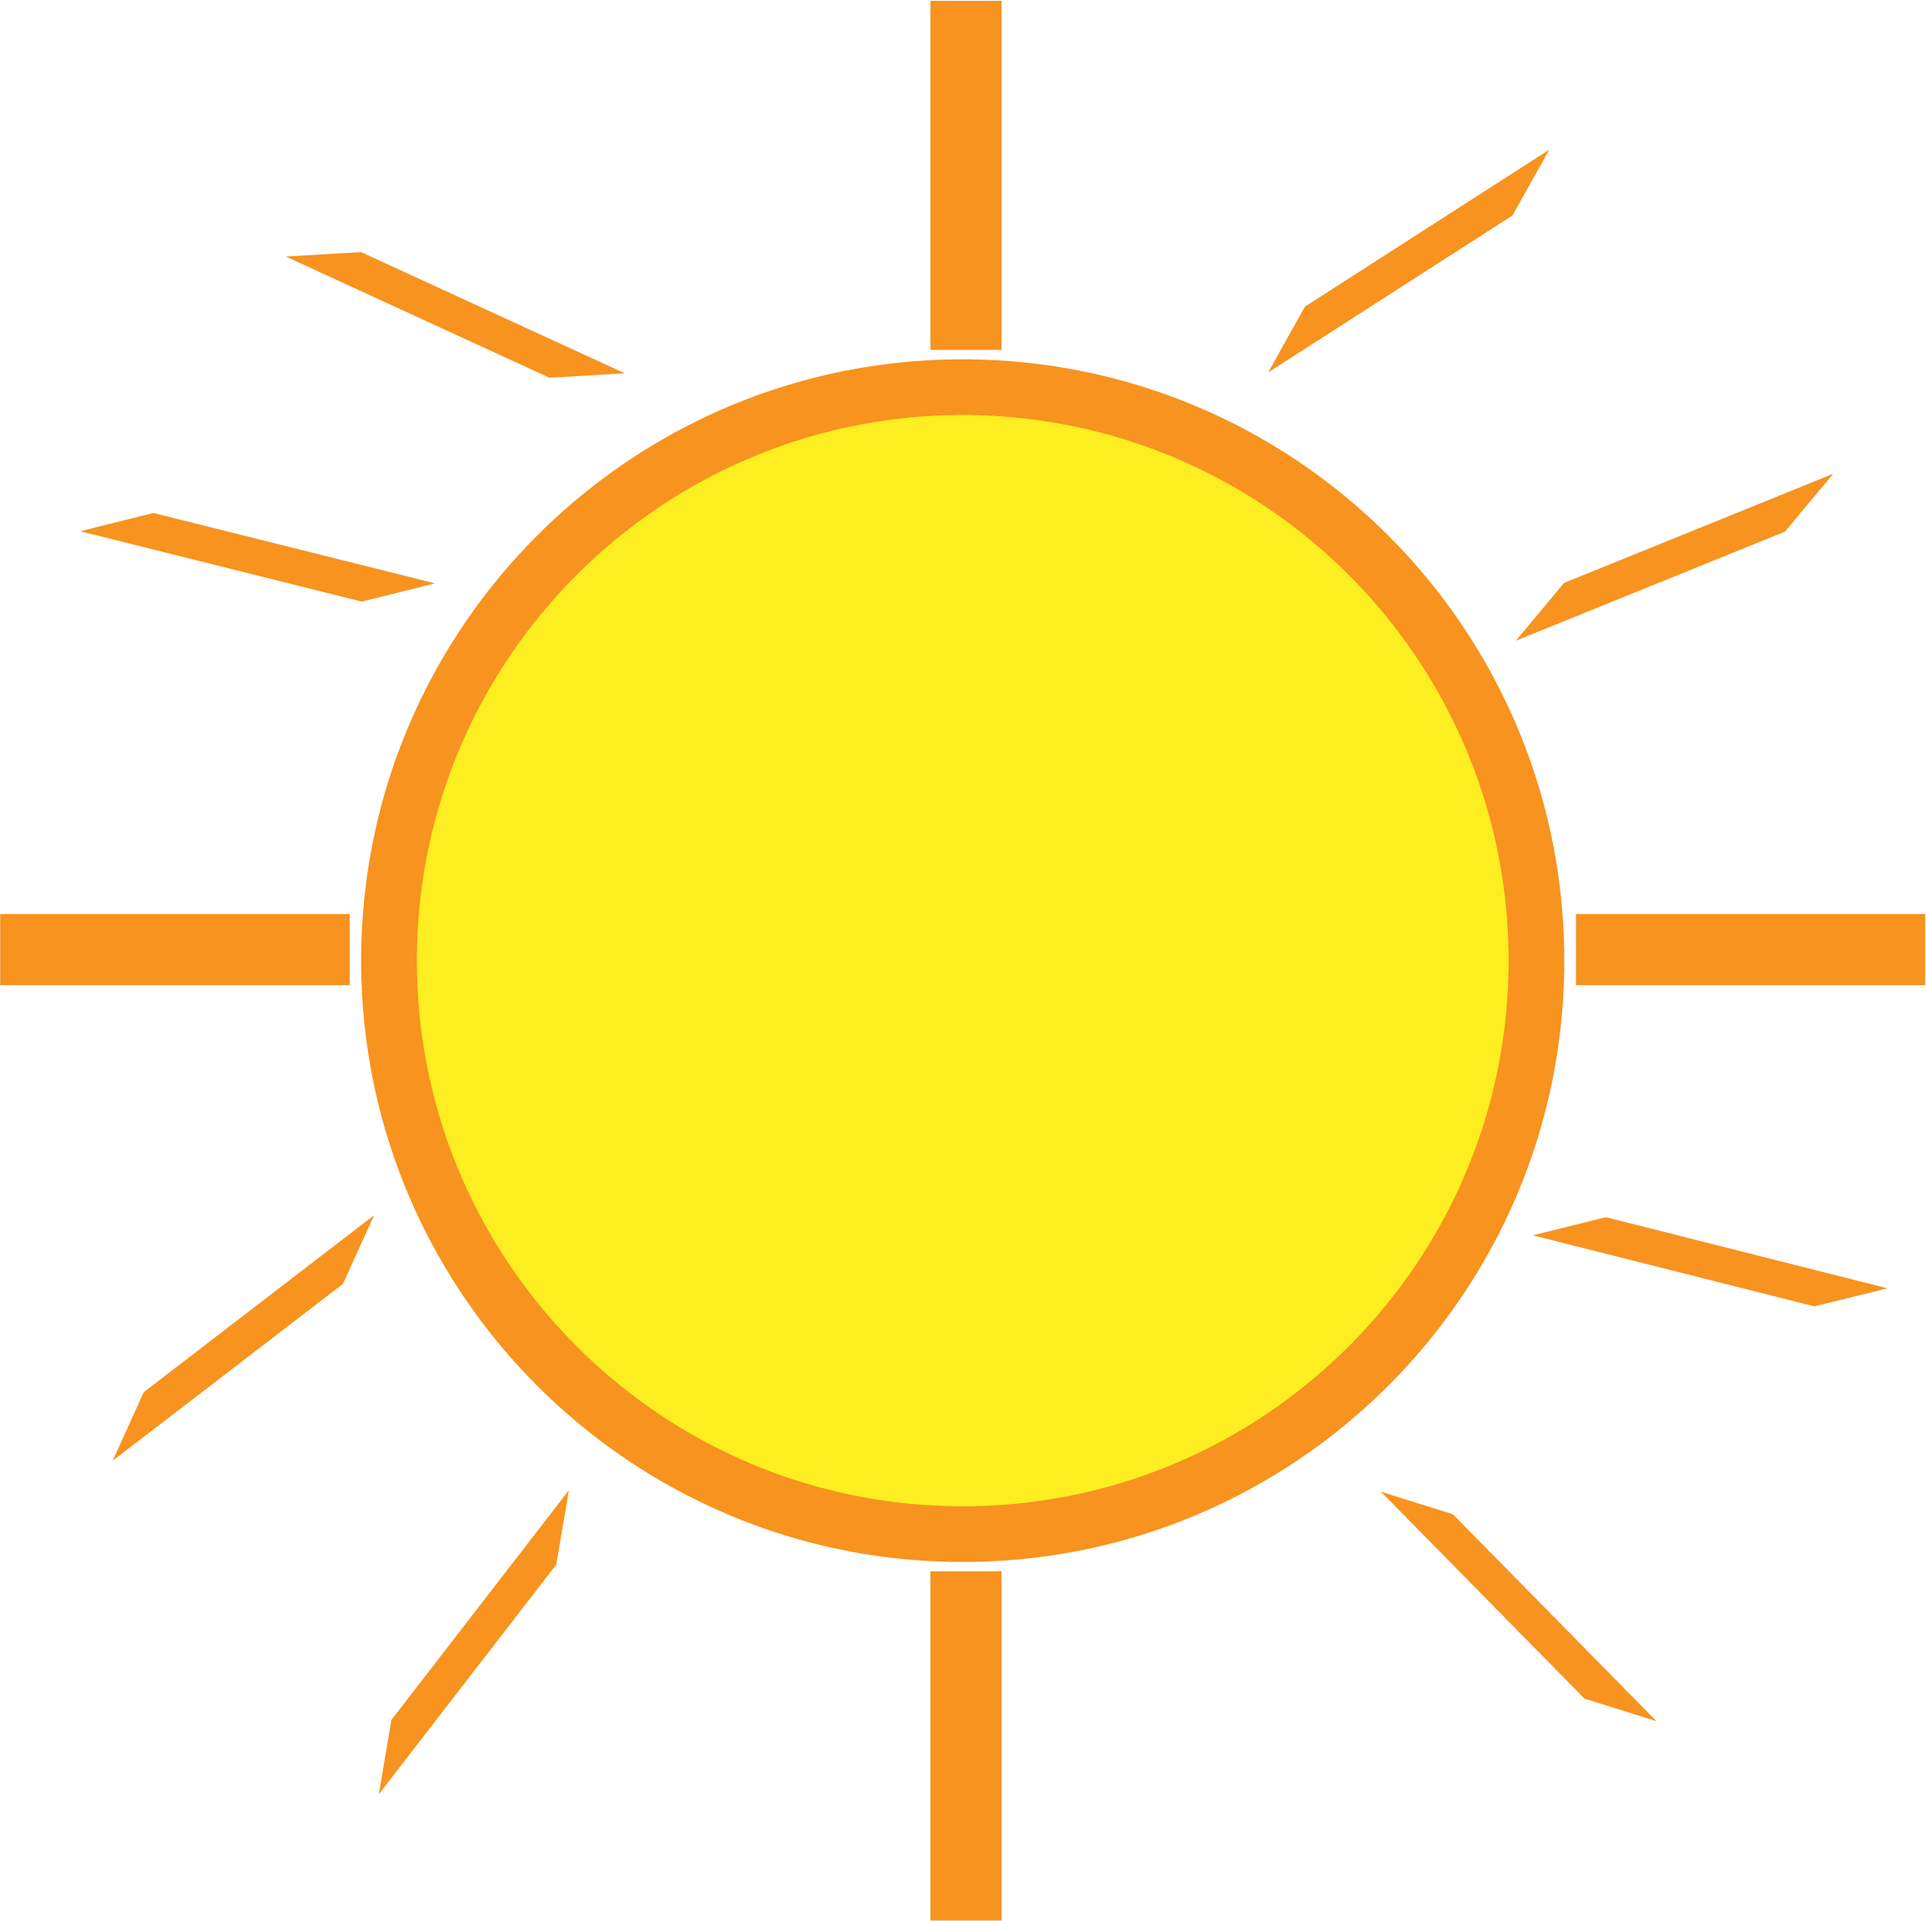
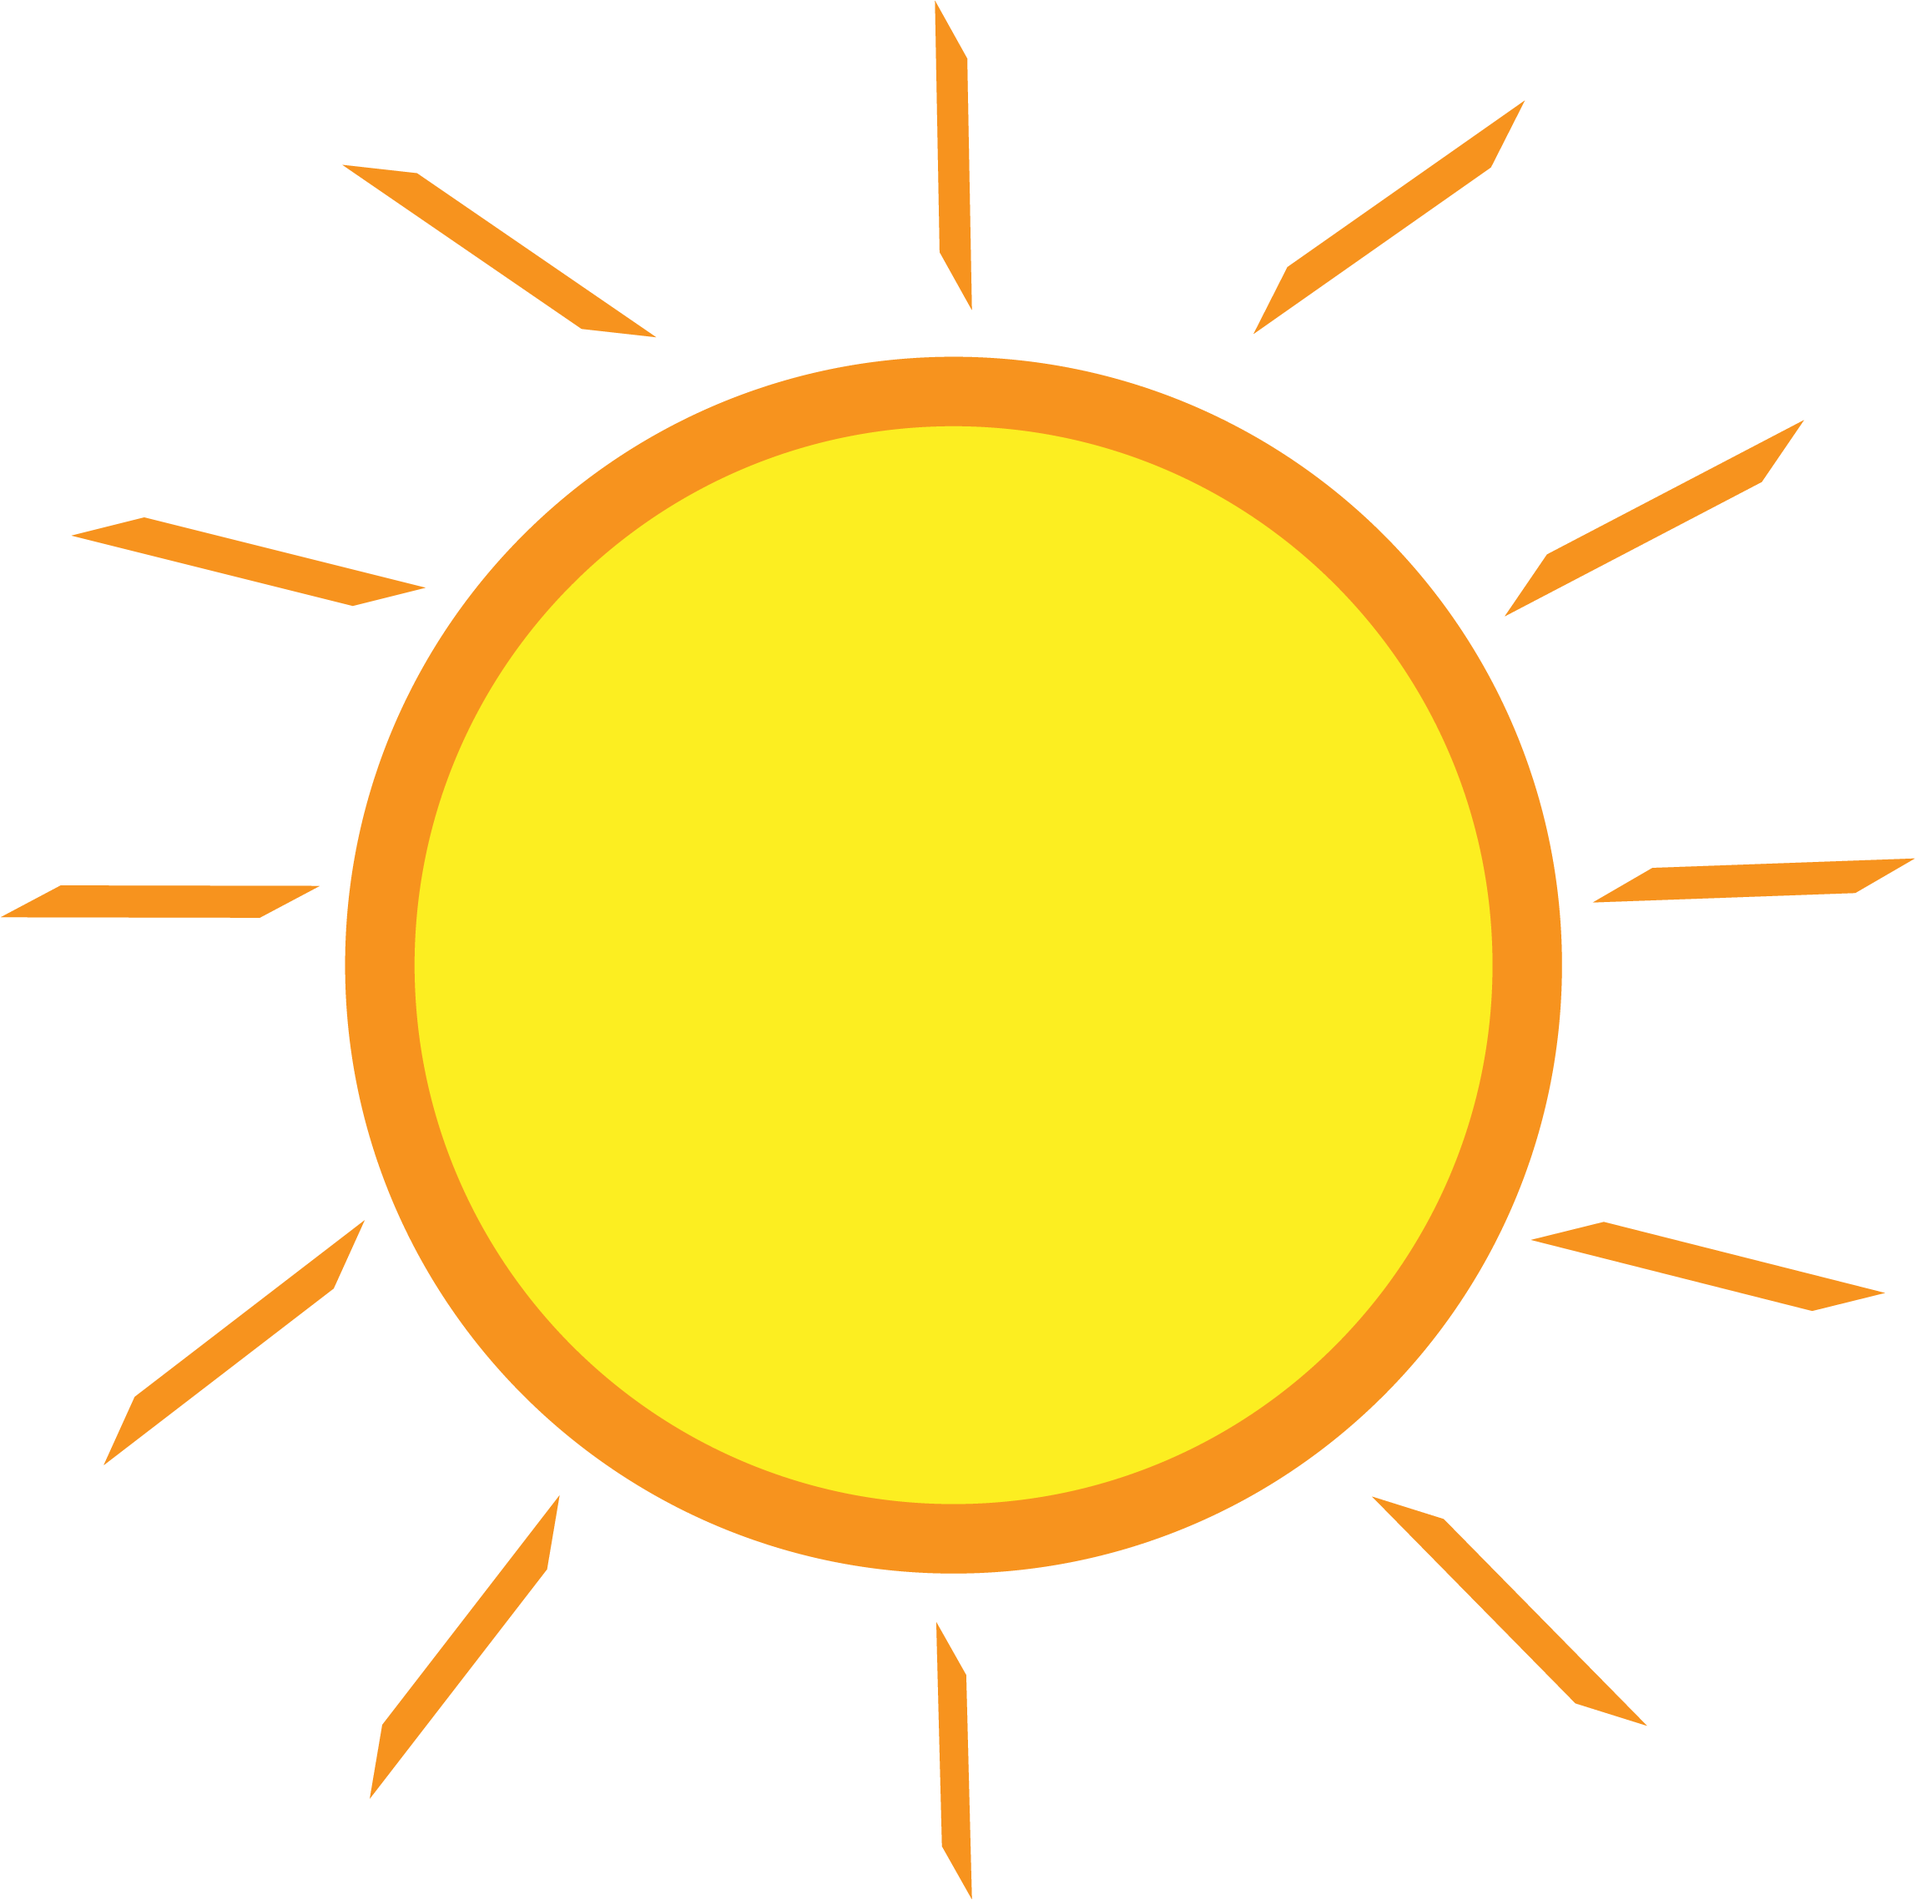
updates to readme, images, and sample files.

diff --git a/workshops/reinvent2018/readme.md b/workshops/reinvent2018/readme.md
@@ -171,14 +171,14 @@ No spaces in front of or after the password.
     * 8 characters minimum length
     * Numbers, special character, uppercase and lowercase letters
 
-6) Once logged in, click on "Add" to input a new question. Use a question id of 
+6) Once logged in, click on "Add" to input a new question. Use a Item Id of 
     <pre>
     sun.1
     </pre>
 
 7) The first question we want the Bot to respond to is 
     <pre>
-    Tell me about our Sun". 
+    Tell me about our Sun. 
     </pre>
     This represents our most frequently asked question. 
 
@@ -283,7 +283,7 @@ Your AWS Cloud9 environment will begin to be setup. Once its ready continue with
 2) Run a script in your Cloud9 IDE that runs CloudFormation to setup an S3 bucket to host the website and uploads the two files
 
     <pre>
-    cd ~/aws-ai-qna-bot/workshops/reinvent2018/scripts
+    cd ~/environment/aws-ai-qna-bot/workshops/reinvent2018/scripts
     ./setupwebsite.sh
     </pre>
 
@@ -305,8 +305,8 @@ Your AWS Cloud9 environment will begin to be setup. Once its ready continue with
     upload: ../web/solar.png to s3://qnabotworkshop-website-s3bucket-1aty4rnkfi6x0/solar.png
     </pre>
 
-    * Note the Website Url. You can open this by clicking on the link from the IDE. Great. You should now see a fireball 
-that is our Sun. 
+    * Note the Website Url. You can open this by clicking on the link from the IDE. Great. You should now see artwork 
+representing the Sun. 
 
 3) Record the URI to your website reported above. For example:
     
@@ -403,8 +403,8 @@ see Alternate Answers / Markdown. Add markdown to your answer
 back to the solar associations web page to try it out. 
     <pre>
     ## Some facts 
-    |Property            | Value              | 
-    |:------------------- |------------------:|
+    |Property             | Value              | 
+    |:--------------------|-------------------:|
     | Age                 | 4.6 Billion Years  |
     | Type                | Yellow Dwarf (G2V) |
     | Diameter            | 1,392,684 km       |
